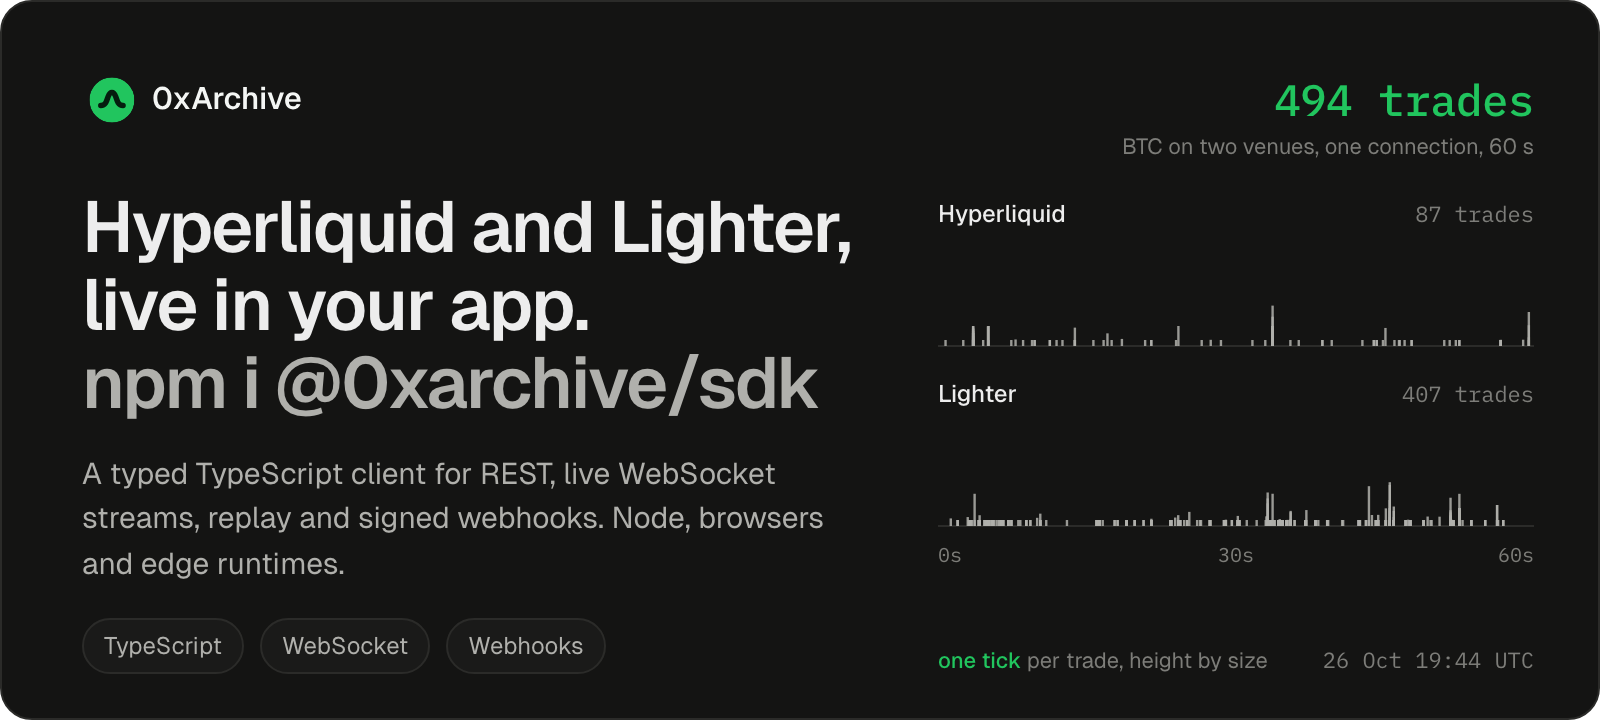
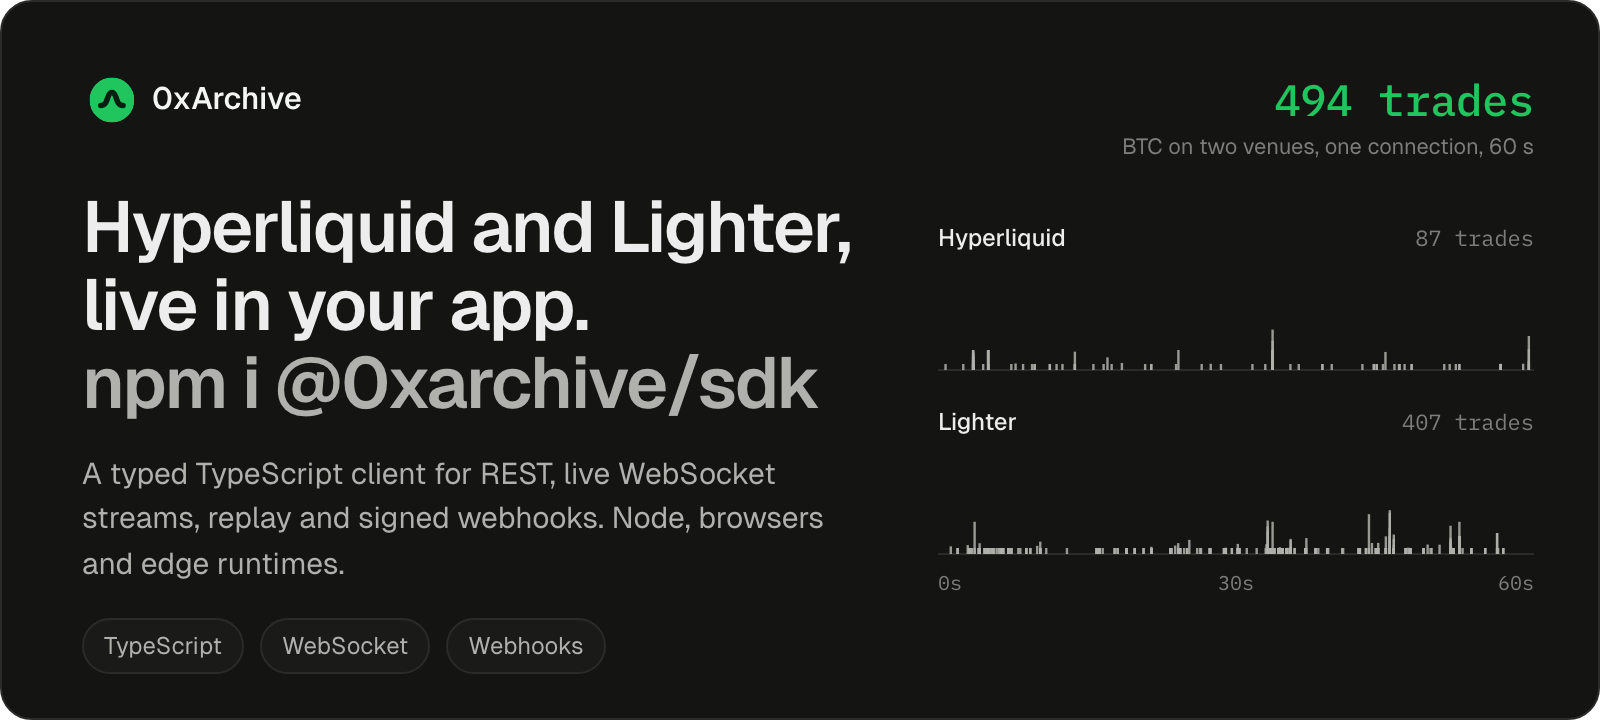
README: drop the dated captions from the hero and the intro

diff --git a/README.md b/README.md
@@ -13,8 +13,6 @@
 
 Put Hyperliquid and Lighter market data in a Node service, dashboard or agent backend: typed REST calls, live WebSocket streams, historical replay and signed webhooks from one package.
 
-<sub>The chart: `subscribeTrades('BTC')` and `subscribeLighter('trades', 'BTC')` on one `OxArchiveWs` connection for 60 seconds from 2026-10-26 19:44 UTC, each trade counted once.</sub>
-
 ## Highlights
 
 - **Two venues, one client.** Hyperliquid core perps, HIP-3, HIP-4 and Spot, and Lighter on mainnet and Robinhood Chain, as `client.hyperliquid`, `client.hyperliquid.hip3`, `client.hyperliquid.hip4`, `client.spot`, `client.lighter` and `client.rhLighter`. [Account positions](#account-positions) work on Hyperliquid, HIP-3 and both Lighter deployments.
